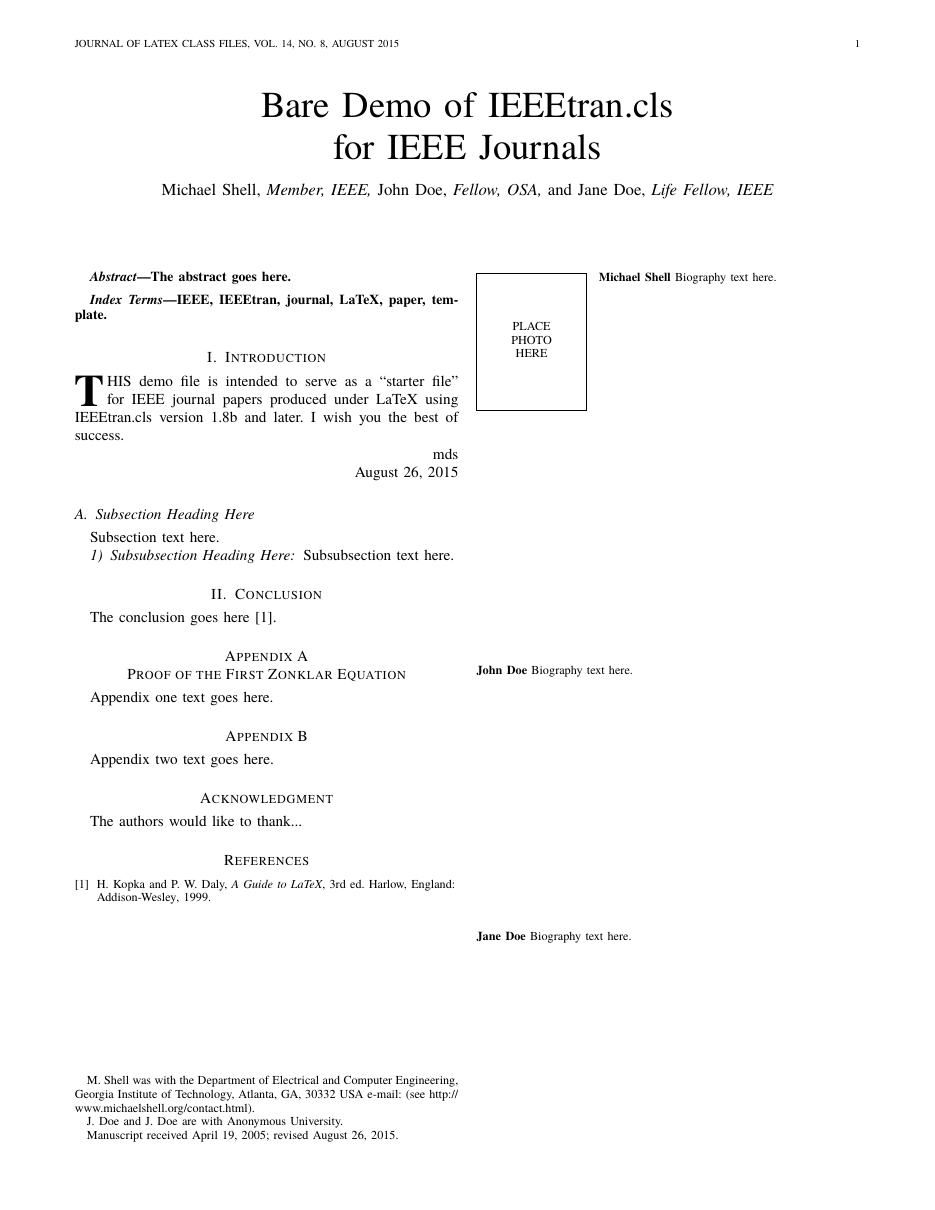
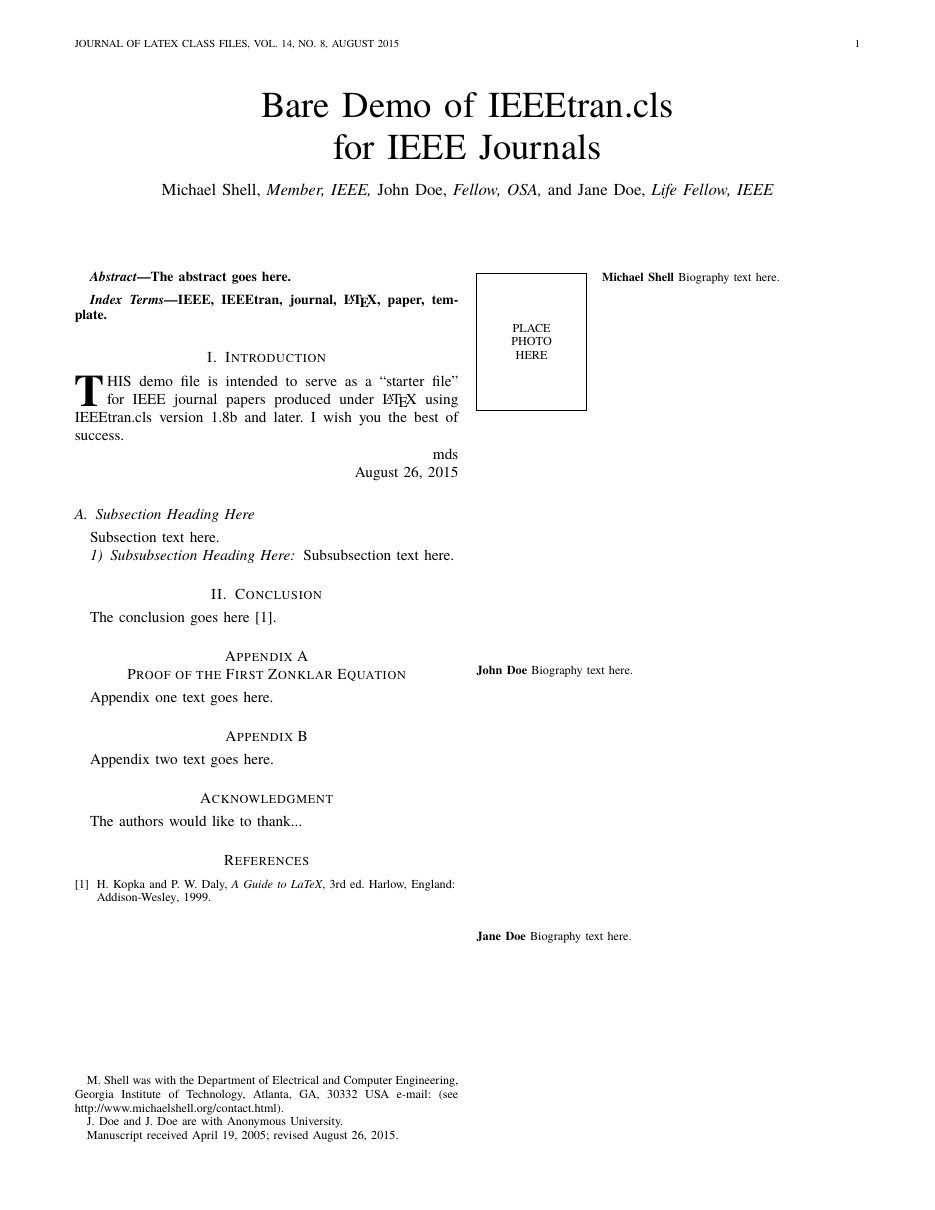
fix: biographies follow the class at a column break
The skip above a biography was left behind when the biography moved on,
where TeX discards it. The fractional part is now weak without a photo,
and an empty block as tall as the room \@IEEEtranneedspace asks for
(IEEEtran.cls:5997-6001) carries a biography with a photo to the next
column. The fixed part is left out when the biography opens a column.

Also:
- the first biography's skip allows for the reference list above it,
  which ends with \topsep and has no padding below
- the text hangs 1.14in in, as the class sets it, not the photo and 1em
- the placeholder text is centred as the minipage centres it, and the
  photo hangs from the face's own cap height
- footnote clearance is 7.89pt, calibrated on the technote fixture

Every journal-family fixture now matches its reference on both columns
and both pages, and the suite compares them.

diff --git a/docs/known-gaps.md b/docs/known-gaps.md
@@ -41,26 +41,27 @@ later pages has a reference.
 Every landmark asserted by `scripts/check.sh` matches its reference to within a
 point, which is the resolution of that script.
 
-Measured at a hundredth of a point with `scripts/diff-columns.sh`, the
-conference, journal, Magnetics and both Computer Society fixtures agree with
-their references to under 0.1pt on every body line of the first column, from
-the title through headings, appendices and the reference list to the
-footnotes. The suite asserts it for all five. What remains:
+Measured at a hundredth of a point with `scripts/diff-columns.sh`, every
+fixture that carries its reference's text agrees with it to about 0.1pt on
+every line: both columns of the journal, Magnetics and technote fixtures, both
+pages of the one-column and peer review fixtures, and the left column of the
+conference and both Computer Society fixtures. That runs from the title
+through headings, appendices, the reference list and biographies to the
+footnotes, and the suite asserts it. What remains:
 
 - **Running heads are uppercased whole**, including an "et al." that
   `bare_jrnl.tex` keeps lowercase with `\MakeLowercase`.
 - **The second conference author row** is out by 0.2pt in one of its two
   references.
-- **Biographies that move to a new column.** LaTeX discards the stretchable
-  skip above a biography at a column break; Typst leaves it behind, where it
-  takes a share of the old column's free space. The biographies before the
-  break then sit higher than in the reference, by 28pt in the technote
-  fixture. Biographies that share one column match to 0.02pt.
-- **`\@IEEEtranneedspace` is not emulated.** The class starts a new column
-  unless a biography has room for its photo, the skip and a line to spare.
-  Typst only asks whether the block fits, so near the foot of a column a
-  biography can stay where LaTeX would have moved it. The one-column fixture
-  shows it.
+- **A biography moves to the next column a little sooner on a page without
+  footnotes.** The class asks for room for the photo, the skip and a line
+  (`IEEEtran.cls:5997-6001`), and TeX measures that room against a page goal
+  that counts the depth of the last footnote line. The port allows for that
+  depth on every page, so without notes it is cautious by 2.7pt.
+- **The first biography is taken to follow the reference list.** Its skip
+  includes the 2pt a list ends with. After anything else it is 2pt too large.
+- **Computer Society biographies** after the first sit 0.3pt and 0.7pt high
+  in the journal fixture's right column.
 - **Computer Society `\thanks`.** The reference sets the plain note half a
   line below the last `\IEEEcompsocitemizethanks` item, over it, because the
   class takes a line back after the list (`IEEEtran.cls:4903`). Here the note
@@ -68,7 +69,6 @@ footnotes. The suite asserts it for all five. What remains:
   reference and the rule above them with them.
 - **The Computer Society journal title block is not quantised.** Its gaps are
   calibrated to the one reference render.
-- **The photo placeholder text** sits 0.9pt high inside its frame.
 - **A word with punctuation inside it is not hyphenated.** TeX breaks
   `IEEEtran.cls` after `IEEE`; Typst leaves it whole and sets the lines around
   it looser. The conference fixture carries a soft hyphen there to follow its
@@ -79,7 +79,16 @@ footnotes. The suite asserts it for all five. What remains:
   no setting for either limit. From the regular 0.35em that is 0.233em, close
   enough. From the bold 0.375em it is 0.25em, so a bold abstract cannot be
   set as tightly as TeX sets it and can break at different words. In one
-  published paper TeX closed an abstract line to 0.235em.
+  published paper TeX closed an abstract line to 0.235em. Palatino goes the
+  other way: the class stops at 0.21em and Typst closes its 0.28em to 0.187em,
+  so the Computer Society journal fixture fits a word into a thanks item that
+  TeX hyphenates.
+- **A URL written as text breaks after a slash.** TeX keeps it whole. The
+  fixtures box theirs to follow their references; a real paper is better off
+  with the break.
+- **The LaTeX logo is not provided.** The fixtures draw it themselves in
+  `tests/logo.typ`, because the word in plain letters is 5.7pt wider and
+  moved a line break.
 - **Line breaks follow TeX closely, not exactly.** The hyphenation cost is
   calibrated on the first page of one published conference paper, where the
   regular text then breaks as TeX broke it in all but three lines. Typst has

diff --git a/CLAUDE.md b/CLAUDE.md
@@ -44,11 +44,15 @@ the paragraph indent was 2pt off for as long as only baselines were compared.
 `scripts/verify-geometry.sh` compares text-block extent and line counts between two PDFs.
 
 `scripts/check.sh` asserts hand-picked landmarks on page one, mostly the title block and the first
-section, at whole points. It also runs `diff-columns.sh` on the left column of the conference, journal,
-Magnetics and both Computer Society fixtures. The one-column, technote and peer review fixtures carry
-their reference's text too, but their columns are not compared yet because biographies still differ, so
-passing the suite says little about those layouts further down the page. When changing spacing, diff a whole column against the reference
-rather than trusting the suite.
+section, at whole points. It also runs `diff-columns.sh` on every column whose fixture carries its
+reference's text: both columns of the journal, Magnetics and technote fixtures, both pages of the
+one-column and peer review fixtures, and the left column of the conference and both Computer Society
+fixtures. When changing spacing, diff a whole column against the reference rather than trusting the
+landmarks.
+
+`diff-columns.sh` marks a line whose text differs from the reference's with `!=`. Read those marks:
+a paragraph that breaks at other words keeps its line count and its baselines, and for a long time
+nothing showed it.
 
 Ghostscript reports whole points at its default 72dpi. Running `txtwrite` with `-r7200` gives baselines
 to a hundredth of a point, which is what the spacing constants were calibrated with. Whole-point
